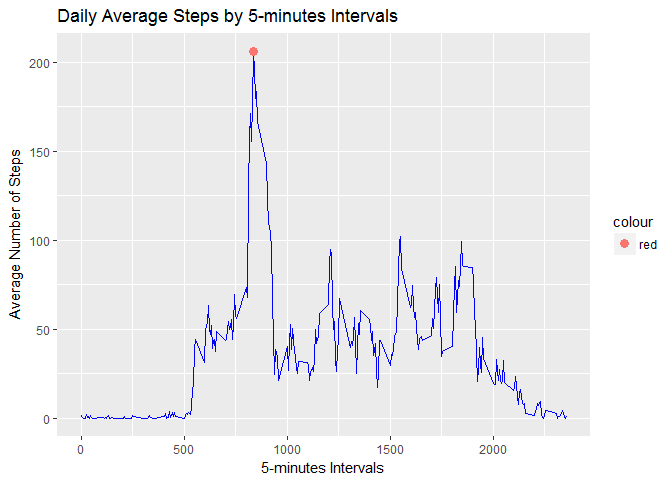
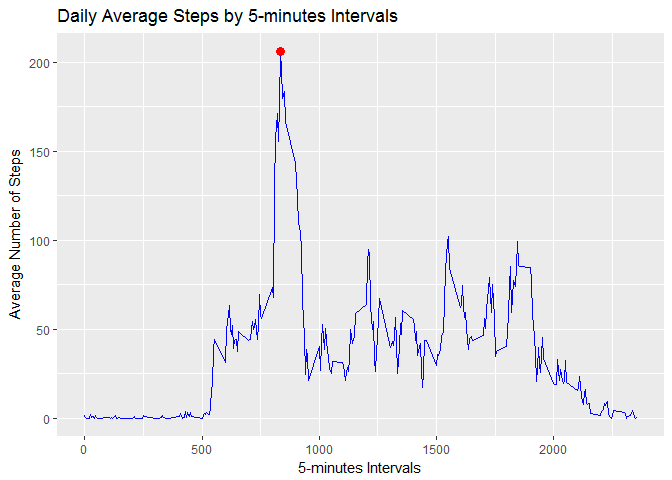
Question 3 task 1 to 3 completed

diff --git a/PA1_template.html b/PA1_template.html
@@ -231,13 +231,41 @@ plot.AvgSteps &lt;- ggplot(df5MinIntervals, aes(x=interval, y=varAvgSteps)) +
         ggtitle(&quot;Daily Average Steps by 5-minutes Intervals&quot;) +
         labs(x=&quot;5-minutes Intervals&quot;) +
         labs(y=&quot;Average Number of Steps&quot;) +
-        geom_point(data=varMaxAvgSteps, aes(x=interval, y=varAvgSteps, color=&quot;red&quot;),
-                   size=3)
+        geom_point(data=varMaxAvgSteps,color=&quot;red&quot;, size=3)
 print(plot.AvgSteps)</code></pre>
[2 lines of base64/hex data omitted]
 </div>
 <div id="imputing-missing-values" class="section level2">
 <h2>Imputing missing values</h2>
+<ol style="list-style-type: decimal">
+<li>Calculate and report the total number of missing values in the dataset (i.e. the total number of rows with NAs).<br />
+</li>
+<li>Devise a strategy for filling in all of the missing values in the dataset. The strategy does not need to be sophisticated. For example, you could use the mean/median for that day, or the mean for that 5-minute interval, etc.<br />
+</li>
+<li>Create a new dataset that is equal to the original dataset but with the missing data filled in.<br />
+</li>
+<li>Make a histogram of the total number of steps taken each day and Calculate and report the mean and median total number of steps taken per day. Do these values differ from the estimates from the first part of the assignment? What is the impact of imputing missing data on the estimates of the total daily number of steps?</li>
+</ol>
+<pre class="r"><code># Compute the total number of rows with missing values
+varMissing &lt;- sum(is.na(dfActivity$steps))</code></pre>
+<p>The total number of rows with missing values in variable ‘steps’ is <strong>2304</strong>. <br> <br> The strategy to impute these <strong>2304</strong> observations with missing values in variable ‘steps’ is to replace them with the median of total number of steps taken for that time interval in a new dataframe <strong>dfActivityNew</strong>.</p>
+<pre class="r"><code># Replace NAs with medians of time interval and create a new DF
+dfActivityNew &lt;- dfActivity %&gt;%
+        group_by(interval) %&gt;%
+        mutate(steps = replace(steps, is.na(steps), median(steps, na.rm=TRUE))) %&gt;%
+        ungroup()
+
+# Check Str() to ensure new DF is the same as the original DF
+str(dfActivityNew)</code></pre>
+<pre><code>## Classes 'tbl_df', 'tbl' and 'data.frame':    17568 obs. of  3 variables:
+##  $ steps   : int  0 0 0 0 0 0 0 0 0 0 ...
+##  $ date    : Date, format: &quot;2012-10-01&quot; &quot;2012-10-01&quot; ...
+##  $ interval: int  0 5 10 15 20 25 30 35 40 45 ...</code></pre>
+<pre class="r"><code># Check if NAs are effectively replace. Expected result is 0.
+varMissing &lt;- sum(is.na(dfActivityNew$steps))
+varMissing</code></pre>
+<pre><code>## [1] 0</code></pre>
+<p>We can confirm that the strategy was effective in replacing NA’s with medians of time intervals.</p>
 </div>
 <div id="are-there-differences-in-activity-patterns-between-weekdays-and-weekends" class="section level2">
 <h2>Are there differences in activity patterns between weekdays and weekends?</h2>

diff --git a/PA1_template.md b/PA1_template.md
@@ -124,6 +124,7 @@ print(plot.TotalSteps)
 <br>
 The histogram indicated that the distribution of total number of steps taken per day is right-skewed with the possibilties of extreme outliers.  The mean of the total number of steps taken per day is **10766.1886792453** while the median is **10765**.  Because the distribution is skewed, the median should be used as the average.     
 
+
 ## What is the average daily activity pattern?  
 1. Make a time series plot (i.e. type = "l") of the 5-minute interval (x-axis) and the average number of steps taken, averaged across all days (y-axis).  
 2. Which 5-minute interval, on average across all the days in the dataset, contains the maximum number of steps?  
@@ -163,18 +164,57 @@ plot.AvgSteps <- ggplot(df5MinIntervals, aes(x=interval, y=varAvgSteps)) +
         ggtitle("Daily Average Steps by 5-minutes Intervals") +
         labs(x="5-minutes Intervals") +
         labs(y="Average Number of Steps") +
-        geom_point(data=varMaxAvgSteps, aes(x=interval, y=varAvgSteps, color="red"),
-                   size=3)
+        geom_point(data=varMaxAvgSteps,color="red", size=3)
 print(plot.AvgSteps)
 ```
 
 ![](PA1_template_files/figure-html/AvgPattern-1.png)<!-- -->
 <br>
-The plot above is the **daily average steps by 5-minutes intervals** across all days.  The time interval **835** minutes have the highest average number of steps at **206.169811320755**.
+The plot above is the **daily average steps by 5-minutes intervals** across all days.  The time interval **835** minutes have the highest average number of steps at **206.169811320755** steps.
 
 
 ## Imputing missing values
+1. Calculate and report the total number of missing values in the dataset (i.e. the total number of rows with NAs).  
+2. Devise a strategy for filling in all of the missing values in the dataset. The strategy does not need to be sophisticated. For example, you could use the mean/median for that day, or the mean for that 5-minute interval, etc.  
+3. Create a new dataset that is equal to the original dataset but with the missing data filled in.  
+4. Make a histogram of the total number of steps taken each day and Calculate and report the mean and median total number of steps taken per day. Do these values differ from the estimates from the first part of the assignment? What is the impact of imputing missing data on the estimates of the total daily number of steps?  
 
+```r
+# Compute the total number of rows with missing values
+varMissing <- sum(is.na(dfActivity$steps))
+```
+The total number of rows with missing values in variable 'steps' is **2304**.
+<br>
+<br>
+The strategy to impute these  **2304** observations with missing values in variable 'steps' is to replace them with the median of total number of steps taken for that time interval in a new dataframe **dfActivityNew**.
 
+```r
+# Replace NAs with medians of time interval and create a new DF
+dfActivityNew <- dfActivity %>%
+        group_by(interval) %>%
+        mutate(steps = replace(steps, is.na(steps), median(steps, na.rm=TRUE))) %>%
+        ungroup()
+
+# Check Str() to ensure new DF is the same as the original DF
+str(dfActivityNew)
+```
+
+```
+## Classes 'tbl_df', 'tbl' and 'data.frame':	17568 obs. of  3 variables:
+##  $ steps   : int  0 0 0 0 0 0 0 0 0 0 ...
+##  $ date    : Date, format: "2012-10-01" "2012-10-01" ...
+##  $ interval: int  0 5 10 15 20 25 30 35 40 45 ...
+```
+
+```r
+# Check if NAs are effectively replace. Expected result is 0.
+varMissing <- sum(is.na(dfActivityNew$steps))
+varMissing
+```
+
+```
+## [1] 0
+```
+We can confirm that the strategy was effective in replacing NA's with medians of time intervals.
 
 ## Are there differences in activity patterns between weekdays and weekends?
